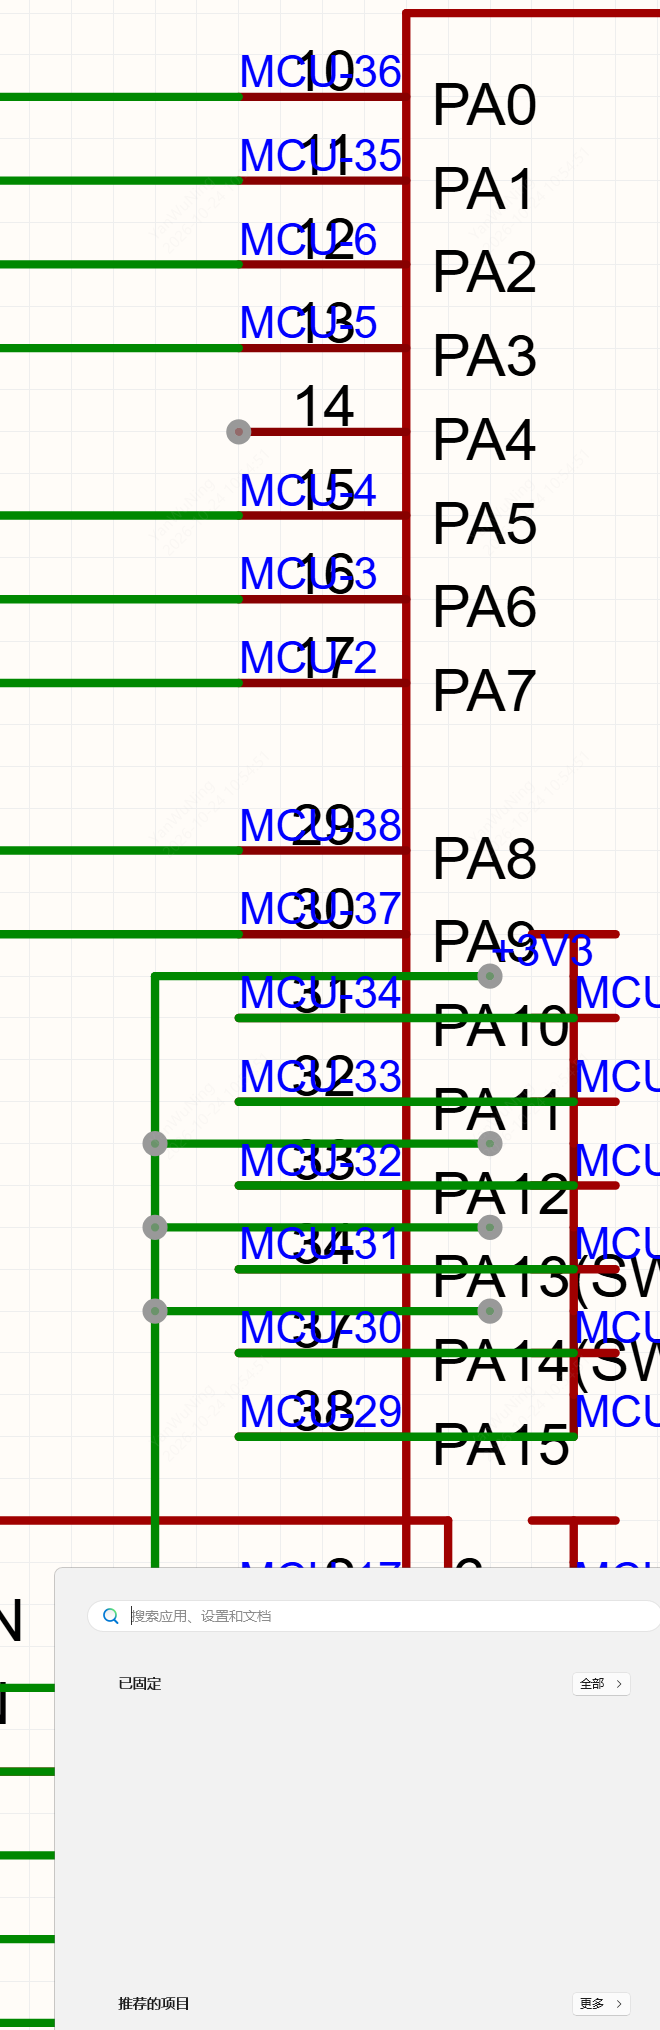
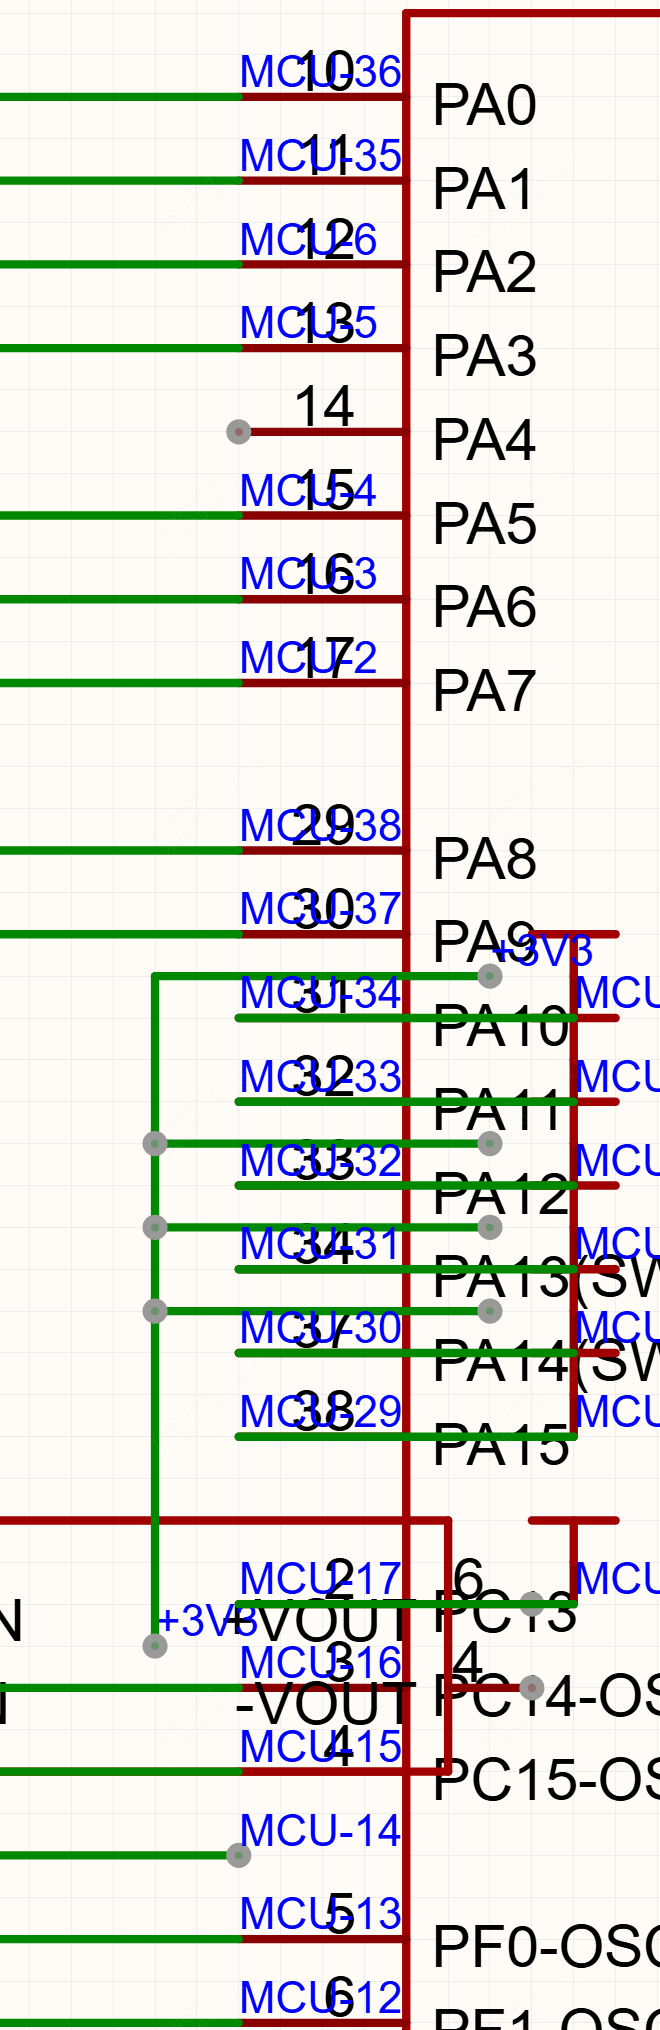
test(evidence): clean frames, declare the temp captures, fix L9
r3t2 found three documentation defects in ab910af/b8c603f:
1. guide L9 (the overview sentence, not a quote) still called both W boxes
   "网名压引脚名". It now says 文字-文字 with the r2t1 split.
2. the two official frames carried a Windows Start-menu overlay along the
   bottom. Both were re-shot with the same declared rects after ESC; the
   label rows are identical, so the measured numbers stand.
3. the two 10:56 temp closeups were gone but never declared. They are now
   listed as non-deliverables with their sha256 and the reason they were
   dropped, and the manifest records the replaced hashes.

Changed region(s): [[0.0606, 0.7759, 1.0, 1.0], [0.8485, 0.931, 1.0, 1.0]]

diff --git a/docs/evidence/current/r9t1-main-view-guide.md b/docs/evidence/current/r9t1-main-view-guide.md
@@ -6,7 +6,7 @@
 
 ![overview](r9t1-main-overview.png)
 
-12 块按 2×6 拼回整页，每块左上角标 `rXcY`；**红框 A** 是已确认的**文字-文字**重叠（`text31` 16pt 项目名的尾部越出自身单元格、压到 `text32`「图幅」14pt，证据 `r8t1-main-closeup-2.png`，范围 (560, 104)–(700, 130)）；**蓝框 W\*** 的两处本轮已按主持人识图改判为**文字-文字（网名压引脚名）**，不再是"导线穿字"候选（证据 `r8t1-main-tile-r4c0.png`，W1 (196, 783)–(224, 807)、W2 (376, 783)–(404, 807)），见下方「主持人识图判定」与「W1/W2 改判」两节。
+12 块按 2×6 拼回整页，每块左上角标 `rXcY`；**红框 A** 是已确认的**文字-文字**重叠（`text31` 16pt 项目名的尾部越出自身单元格、压到 `text32`「图幅」14pt，证据 `r8t1-main-closeup-2.png`，范围 (560, 104)–(700, 130)）；**蓝框 W\*** 的两处本轮已按主持人识图改判为**文字-文字**，不再是"导线穿字"候选（证据 `r8t1-main-tile-r4c0.png`，W1 (196, 783)–(224, 807)、W2 (376, 783)–(404, 807)）；r2t1 的 8.25 px/单位定标把对象进一步分开——W1 压**引脚编号 31**，`attr102` 只擦过导线，压引脚名的是同排**标志名**，见下方「W1/W2 改判」与 2026-10-24 更正块。
 
 > **看图注意（拼图缝）**：这张整页图是把 12 块逐块平铺画在 `col × 1189` 的位置上拼的（`r9t1-main-view-guide.mjs` L379-386），**没有裁掉相邻块 12% 的共享带**（`r0c0` 覆盖到 x=509.8，`r0c1` 从 x=400.2 起，共享带 400.2–509.8 被画了两遍）。所以标题栏里 `图样名称 MAIN|MAIN`、`项目 dsh-t19-real-ic-1…|…633`、`版本 V0.1|V0.1` 的"重复"是**拼图产物，不是文档内容重复**。判内容是否重复请看单块图（`r8t1-main-tile-r0c1.png`）或 `closeup-2`，不要看这张合成图。
 
